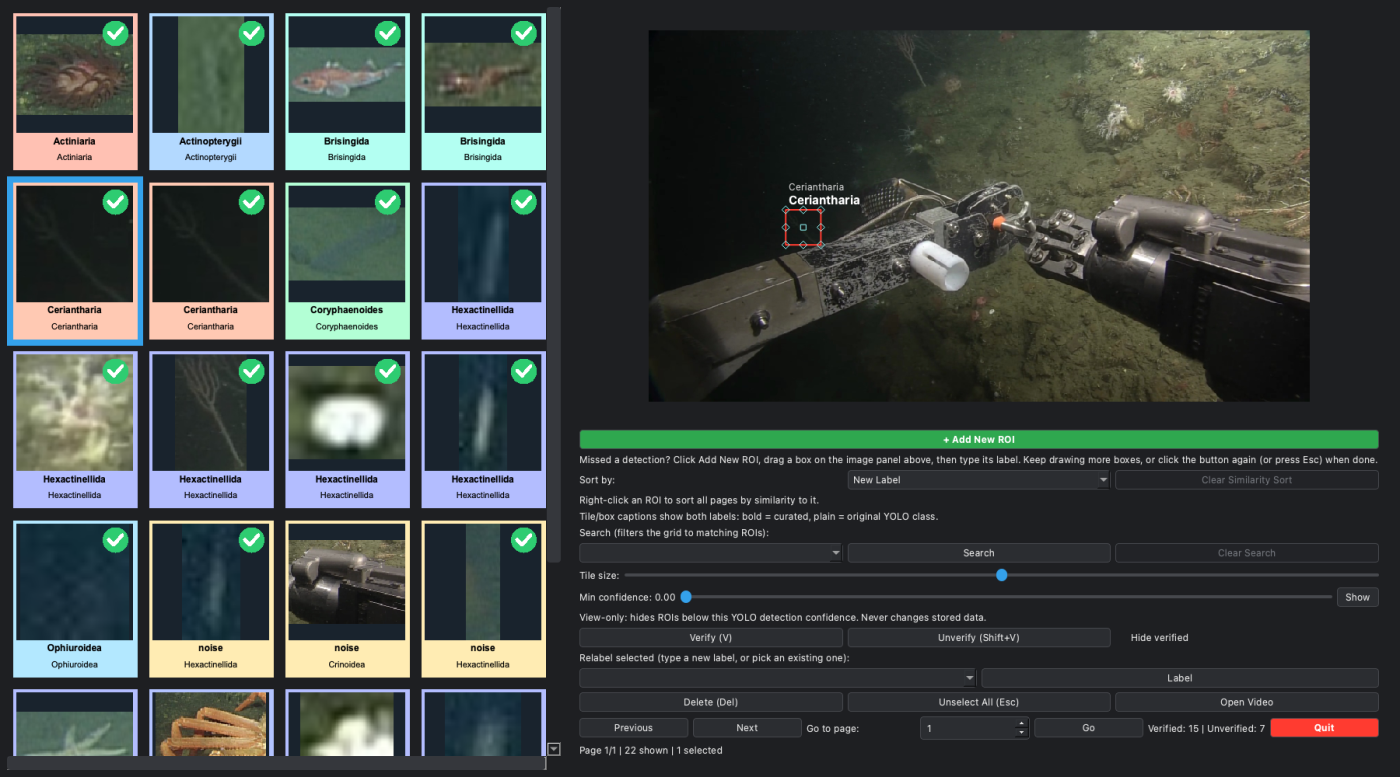
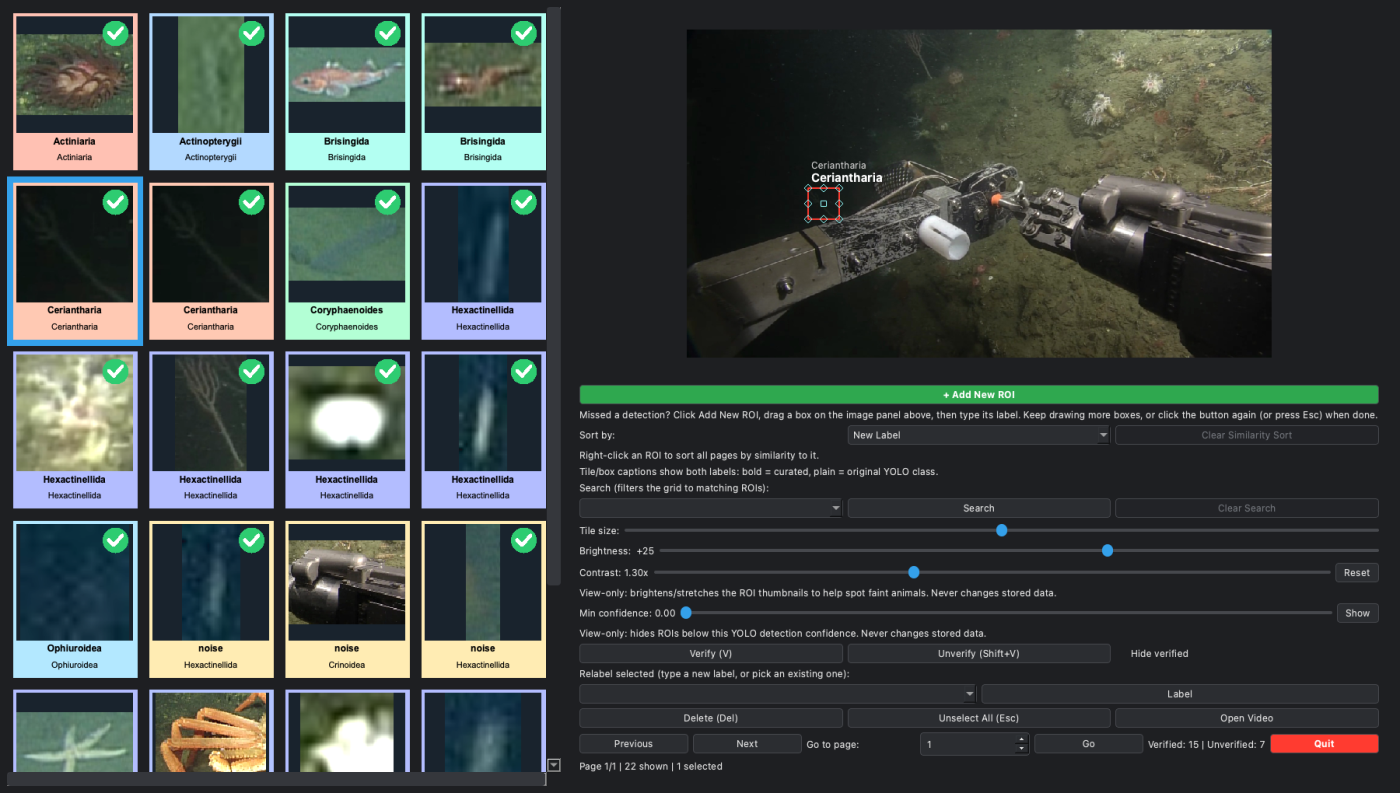
Added brightness and contrast sliders below the tile size slider in the review GUI - they stretch the ROI thumbnails across the whole grid so faint animals against sediment are easier to identify, with a Reset button to return to neutral. Contrast pivots around mid-grey so the two sliders work indep

diff --git a/src/mbariml/gui/main_window.py b/src/mbariml/gui/main_window.py
@@ -35,7 +35,7 @@ from __future__ import annotations
 from pathlib import Path
 from threading import Event
 
-from PySide6.QtCore import QEvent, QThreadPool, Qt, Slot
+from PySide6.QtCore import QEvent, QThreadPool, Qt, QTimer, Slot
 from PySide6.QtGui import QKeySequence, QShortcut
 from PySide6.QtWidgets import (
     QCheckBox,
@@ -70,6 +70,18 @@ from mbariml import video
 logger = get_logger(__name__)
 
 ZOOM_MIN, ZOOM_MAX, ZOOM_DEFAULT = 50, 200, 100  # percent
+
+# Display-only brightness/contrast for the mosaic thumbnails. Brightness is an
+# additive offset in 0-255 pixel units; contrast is a multiplier x100 (so 100
+# is neutral, 250 is 2.5x). Applied per tile in RectWidget.getpic -- nothing
+# stored is ever modified.
+BRIGHTNESS_MIN, BRIGHTNESS_MAX, BRIGHTNESS_DEFAULT = -100, 100, 0
+CONTRAST_MIN, CONTRAST_MAX, CONTRAST_DEFAULT = 25, 300, 100
+# Re-rendering every loaded tile costs a small cv2 op plus a QPixmap
+# conversion each, so a slider drag firing 30+ times a second would stutter
+# on a full page. Coalesce to the last value after a short pause instead --
+# short enough to still feel live.
+DISPLAY_ADJUST_DEBOUNCE_MS = 70
 ROI_LOAD_CONCURRENCY = 8
 
 # Each pyqtgraph RectROI overlay (handles, region-changed wiring, a TextItem
@@ -224,6 +236,8 @@ class MainWindow(QMainWindow):
         # query_service._build_where.
         self.min_confidence: float = 0.0
         self._zoom_percent = ZOOM_DEFAULT
+        self._brightness = BRIGHTNESS_DEFAULT
+        self._contrast_percent = CONTRAST_DEFAULT
 
         self._rect_widgets: list[RectWidget] = []
         self._n_columns = 0
@@ -257,6 +271,10 @@ class MainWindow(QMainWindow):
 
         # "Add New ROI" tool state -- see _on_add_new_toggled/_on_new_box_drawn.
         self._add_new_active = False
+
+        self._display_adjust_timer = QTimer(self)
+        self._display_adjust_timer.setSingleShot(True)
+        self._display_adjust_timer.timeout.connect(self._apply_display_adjustment)
 
         self.graphics_view = QGraphicsView()
         self.graphics_view.installEventFilter(self)
@@ -415,6 +433,39 @@ class MainWindow(QMainWindow):
         self.zoom_slider.valueChanged.connect(self._on_zoom_changed)
         zoom_layout.addWidget(self.zoom_slider)
         controls_layout.addLayout(zoom_layout)
+
+        # Brightness/contrast for the ROI grid -- faint or low-contrast
+        # animals against sediment are much easier to pick out with these
+        # than at native exposure. View-only, like the tile-size slider.
+        brightness_layout = QHBoxLayout()
+        self.brightness_label = QLabel("Brightness:   0")
+        brightness_layout.addWidget(self.brightness_label)
+        self.brightness_slider = QSlider(Qt.Orientation.Horizontal)
+        self.brightness_slider.setMinimum(BRIGHTNESS_MIN)
+        self.brightness_slider.setMaximum(BRIGHTNESS_MAX)
+        self.brightness_slider.setValue(BRIGHTNESS_DEFAULT)
+        self.brightness_slider.valueChanged.connect(self._on_brightness_changed)
+        brightness_layout.addWidget(self.brightness_slider)
+        controls_layout.addLayout(brightness_layout)
+
+        contrast_layout = QHBoxLayout()
+        self.contrast_label = QLabel("Contrast: 1.00x")
+        contrast_layout.addWidget(self.contrast_label)
+        self.contrast_slider = QSlider(Qt.Orientation.Horizontal)
+        self.contrast_slider.setMinimum(CONTRAST_MIN)
+        self.contrast_slider.setMaximum(CONTRAST_MAX)
+        self.contrast_slider.setValue(CONTRAST_DEFAULT)
+        self.contrast_slider.valueChanged.connect(self._on_contrast_changed)
+        contrast_layout.addWidget(self.contrast_slider)
+        reset_display_button = QPushButton("Reset")
+        reset_display_button.setToolTip("Return brightness and contrast to neutral.")
+        reset_display_button.clicked.connect(self._reset_display_adjustment)
+        contrast_layout.addWidget(reset_display_button)
+        controls_layout.addLayout(contrast_layout)
+        controls_layout.addWidget(
+            QLabel("View-only: brightens/stretches the ROI thumbnails to help spot faint "
+                   "animals. Never changes stored data.")
+        )
 
         confidence_layout = QHBoxLayout()
         self.confidence_label = QLabel("Min confidence: 0.00")
@@ -714,6 +765,8 @@ class MainWindow(QMainWindow):
                 clicked_slot=self._on_rect_clicked,
                 similarity_sort_slot=self._on_similarity_sort_requested,
                 zoom=zoom,
+                brightness=self._brightness,
+                contrast=self._contrast_percent / 100.0,
             )
             for row in rows
         ]
@@ -800,6 +853,34 @@ class MainWindow(QMainWindow):
         for rect_widget in self._rect_widgets:
             rect_widget.update_zoom(zoom)
         self.render_mosaic()
+
+    def _on_brightness_changed(self, value: int) -> None:
+        self._brightness = value
+        self.brightness_label.setText(f"Brightness: {value:+4d}" if value else "Brightness:   0")
+        self._schedule_display_adjustment()
+
+    def _on_contrast_changed(self, value: int) -> None:
+        self._contrast_percent = value
+        self.contrast_label.setText(f"Contrast: {value / 100:.2f}x")
+        self._schedule_display_adjustment()
+
+    def _reset_display_adjustment(self) -> None:
+        """Back to neutral. Dragging both sliders back to exactly 0/1.00x by
+        hand is fiddly, and 'what did this actually look like?' is a question
+        you ask constantly while reviewing."""
+        self.brightness_slider.setValue(BRIGHTNESS_DEFAULT)
+        self.contrast_slider.setValue(CONTRAST_DEFAULT)
+
+    def _schedule_display_adjustment(self) -> None:
+        """Coalesce slider movement into one re-render (see
+        DISPLAY_ADJUST_DEBOUNCE_MS) -- the label updates immediately, so the
+        control still feels responsive while dragging."""
+        self._display_adjust_timer.start(DISPLAY_ADJUST_DEBOUNCE_MS)
+
+    def _apply_display_adjustment(self) -> None:
+        contrast = self._contrast_percent / 100.0
+        for rect_widget in self._rect_widgets:
+            rect_widget.set_display_adjustment(self._brightness, contrast)
 
     def _on_confidence_slider_moved(self, value: int) -> None:
         """Live-update the label only -- actually narrowing the view is an

diff --git a/src/mbariml/gui/rect_widget.py b/src/mbariml/gui/rect_widget.py
@@ -63,12 +63,19 @@ class RectWidget(QtWidgets.QGraphicsWidget):
         parent=None,
         zoom: float = 1.0,
         preload_roi: bool = False,
+        brightness: int = 0,
+        contrast: float = 1.0,
     ) -> None:
         QtWidgets.QGraphicsWidget.__init__(self, parent)
 
         self.row = row
         self._roi_service = roi_service
         self._zoom = max(float(zoom), 0.01)
+        # Display-only brightness/contrast, applied when the thumbnail pixmap
+        # is built (see getpic). Never touches self.roi or anything stored --
+        # same "view constraint only" rule as the min-confidence filter.
+        self._brightness = int(brightness)
+        self._contrast = float(contrast)
 
         # Tall enough for two stacked label lines (new_label on top, bold;
         # original_label below, plain -- see paint()) -- both are always
@@ -233,6 +240,37 @@ class RectWidget(QtWidgets.QGraphicsWidget):
 
     # -- Geometry -------------------------------------------------------------
 
+    def _adjusted(self, roi: np.ndarray) -> np.ndarray:
+        """Apply the current display brightness/contrast to a thumbnail.
+
+        Contrast pivots around mid-grey (128) rather than around black:
+        ``cv2.convertScaleAbs``'s plain ``alpha * pixel + beta`` scales about
+        zero, so raising contrast would also wash the whole tile brighter and
+        the two sliders would fight each other. Folding ``128 * (1 - alpha)``
+        into beta keeps mid-grey fixed, so contrast stretches the range about
+        the middle and brightness alone shifts it -- which is what makes them
+        usable as two independent controls.
+        """
+        if self._brightness == 0 and self._contrast == 1.0:
+            return roi  # neutral: don't pay for a no-op conversion
+        beta = 128.0 * (1.0 - self._contrast) + self._brightness
+        return cv2.convertScaleAbs(roi, alpha=self._contrast, beta=beta)
+
+    def set_display_adjustment(self, brightness: int, contrast: float) -> None:
+        """Re-render this tile's thumbnail at a new brightness/contrast.
+
+        Rebuilds the pixmap from ``self.roi``, the already-decoded crop, so
+        this costs no database read and no JPEG decode -- and leaves the
+        stored ROI untouched.
+        """
+        brightness, contrast = int(brightness), float(contrast)
+        if (brightness, contrast) == (self._brightness, self._contrast):
+            return
+        self._brightness, self._contrast = brightness, contrast
+        if self.roi is not None:
+            self.pic = self.getpic(self.roi)
+            self.update()
+
     def update_zoom(self, zoom: float) -> None:
         self._zoom = max(float(zoom), 0.01)
         self.boundingRect()
@@ -369,6 +407,11 @@ class RectWidget(QtWidgets.QGraphicsWidget):
         roi_height, roi_width = roi.shape[:2]
         scale = min(max_width / roi_width, max_height / roi_height)
         roi = cv2.resize(roi, (0, 0), fx=scale, fy=scale)
+
+        # Deliberately after the resize: this runs on a ~120x120 thumbnail
+        # rather than the full-resolution crop, which is what keeps dragging
+        # the sliders across a 500-tile page affordable.
+        roi = self._adjusted(roi)
 
         pad_x = (max_width - roi.shape[1]) // 2
         pad_y = (max_height - roi.shape[0]) // 2

diff --git a/src/mbariml/__init__.py b/src/mbariml/__init__.py
@@ -10,4 +10,4 @@ See ``mbariml.cli`` for the unified command line entry point (``mbariml``),
 or ``mbariml.steps`` for the individual step implementations.
 """
 
-__version__ = "0.11.0"
+__version__ = "0.12.0"

diff --git a/README.md b/README.md
@@ -13,9 +13,10 @@ then out again as training data. Four phases:
 ![The mbariml review GUI](docs/review_gui.png)
 
 *`mbariml review` — the curation GUI. Left: the ROI mosaic, tinted by label
-with a green check on verified ROIs. Right: the full source frame with every
+with a green check on verified ROIs, here brightened a little with the
+Brightness/Contrast sliders. Right: the full source frame with every
 detection overlaid as a draggable box (the selected one in red), over the
-controls panel. "Open Video" is live here because this ROI came from
+controls panel. "Open Video" is live because this ROI came from
 `infer video`, so it jumps straight to that moment in the source footage.*
 
 **Also in this repo:** [`cheat_sheet.txt`](cheat_sheet.txt) (one worked
@@ -188,6 +189,13 @@ database (ids 0–4 and 5–8), with `stats` aggregating across both.
   normal sorting.
 - The status line under the buttons always shows the current page, how many
   ROIs are shown, and how many are selected, so a keypress never surprises you.
+- **Brightness / Contrast sliders** (below the tile-size slider) adjust the
+  ROI thumbnails across the whole grid — faint animals against sediment, or
+  low-contrast crops from deep footage, are often far easier to identify
+  stretched than at native exposure. Contrast pivots around mid-grey, so the
+  two sliders act independently rather than fighting each other, and
+  **Reset** returns both to neutral. View-only: the stored ROI is never
+  modified, so this changes nothing you export.
 - **Open Video** (next to Delete): for ROIs that came from `infer video`,
   opens the *source footage* at the exact moment that detection was made,
   from the row's `video_path` + `frame_time_s`. Tries IINA, then mpv, then
@@ -388,7 +396,7 @@ to be filled in later by a separate navigation-merge process:
 
 ```
 # mbariml identification file
-# generator: mbariml v0.11.0
+# generator: mbariml v0.12.0
 # generated_by: lonny
 # generated_at: 2026-08-19T17:36:28Z
 # model: /path/to/best.pt

diff --git a/CHANGELOG.md b/CHANGELOG.md
@@ -11,6 +11,29 @@ recognizable.
 
 ---
 
+## 0.12.0 — brightness/contrast for the review grid
+
+Two sliders below the tile-size slider adjust the ROI thumbnails across the
+whole mosaic. Faint animals against sediment, and low-contrast crops from
+deep footage, are considerably easier to identify stretched than at native
+exposure — and previously the only way to get a better look was to open the
+source image outside the tool.
+
+Contrast pivots around mid-grey rather than around black: `convertScaleAbs`'s
+plain `alpha * pixel + beta` scales about zero, so raising contrast would
+also wash the tile brighter and the two controls would fight each other.
+Folding `128 * (1 - alpha)` into beta keeps mid-grey fixed, so contrast
+stretches the range about the middle while brightness alone shifts it.
+
+Applied per tile in `RectWidget.getpic`, *after* the thumbnail resize, so the
+work happens on a ~120×120 image rather than the full-resolution crop; slider
+movement is debounced (70 ms) so dragging across a 500-tile page coalesces
+into one re-render rather than 30. Strictly view-only — the stored `roi` blob
+is never touched, so nothing exported changes. A **Reset** button returns
+both to neutral, and the setting carries across paging and sorting.
+
+---
+
 ## 0.11.0 — video ingest, `infer` merge, phases instead of step numbers
 
 ### Added
